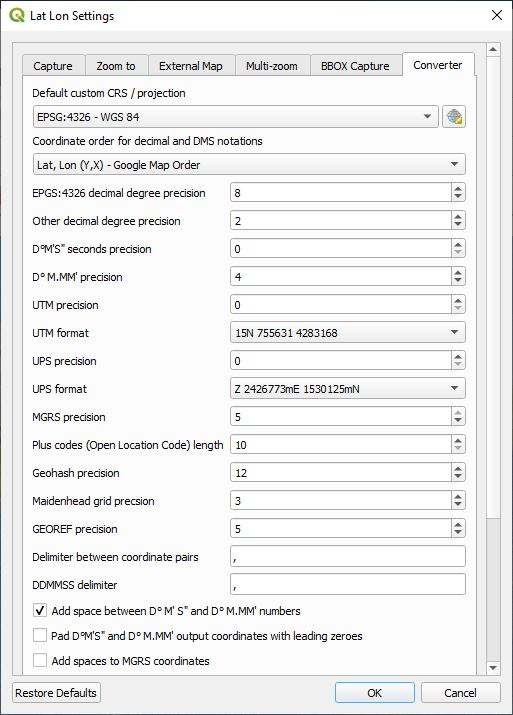
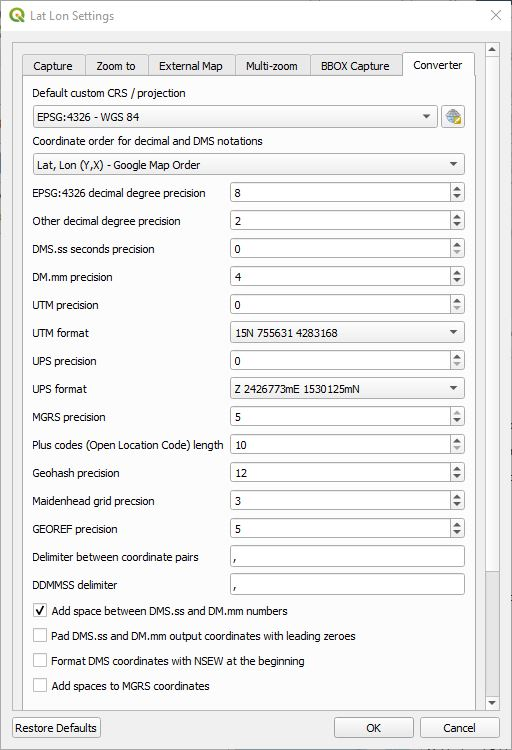
Update documentation.

Changed region(s): [[0.0, 0.0, 0.9688, 1.0], [0.625, 0.9231, 1.0, 1.0], [0.9375, 0.0, 1.0, 0.0308]]

diff --git a/readme.md b/readme.md
@@ -360,8 +360,8 @@ These are the default settings for the ***Coordinate Conversion*** dialog box.
 * ***Coordinate order for decimal and DMS notations*** determines whether the coordinates will be formatted in an ***Lat, Lon (Y, X)*** or ***Lon, Lat (X, Y)*** order.
 * ***EPSG:4326 decimal degree precision*** determines the number of digits after the decimal point for a WGS 84 latitude and longitude coordinate.
 * ***Other Decimal degree precision*** is the number of digits after the decimal point for all other coordinate formats.
-* ***DMS seconds precision*** is the number of decimal digits for the second in a DMS formatted coordinate.
-* ***D&deg;MM' precision*** is the number of decimal digits for the minute in a D&deg;MM' formatted coordinate.
+* ***DMS.ss seconds precision*** is the number of decimal digits for the second in a DMS formatted coordinate.
+* ***DM.mm' precision*** is the number of decimal digits for the minute in a DM.mm' formatted coordinate.
 * ***UTM precision*** specifies the number of decimal digits for a UTM formatted coordinate.
 * ***UTM format*** specifies one of these formats to be displayed: '15N 755631 4283168', '755631,4283168,15N','755631mE,4283168mN,15N', or '755631mE,4283168mN,15,N'.
 * ***UPS precision*** specifies the number of decimal digits for a UPS formatted coordinate.
@@ -372,6 +372,7 @@ These are the default settings for the ***Coordinate Conversion*** dialog box.
 * ***GEOREF precision*** determins the number of digits in a GEOREF coordinate.
 * ***Delimiter between coordinate pairs*** is the delimiter used between coordinate pairs for those representations that require a delimiter.
 * ***DDMMSS delimiter*** is the delimiter used between DDMMSS coordinate pairs. Leave this blank if no space is desired between coordinates. The default is ", ".
-* ***Add space between D&deg; M' S" and D&deg; M.MM' numbers*** - When checked a space will be added between each pair of numbers.
-* ***Pad DMS and DM.MM output coordinates with leading zeros*** - When checked individual DMS coordinates will be padded with leading zero. A coordinate that normally looks like 1° 5' 15"N, 10° 19' 50"W would become 01° 05' 15"N, 010° 19' 50"W.
+* ***Add space between DMS.ss and DM.mm' numbers*** - When checked a space will be added between each pair of numbers and will look like 1° 5' 15" N, 10° 19' 50" W vs. 1°5'15"N, 10°19'50"W when unchecked.
+* ***Pad DMS and DM.mm output coordinates with leading zeros*** - When checked individual DMS coordinates will be padded with leading zero. A coordinate that normally looks like 1° 5' 15"N, 10° 19' 50"W would become 01° 05' 15"N, 010° 19' 50"W.
+* ***Format DMS coordinates with NSEW at the beginning*** - This causes the N,S,E,W direction abbreviations to be placed at the beginning of a DMS coordinate such as "N400210.53, W1050824.96".
 * ***Add spaces to MGRS coordinates*** - This will add spaces to an MGRS coordinate when checked. Unchecked it looks like "16TDL8016526461" and checked it looks like "16T DL 80165 26461".
